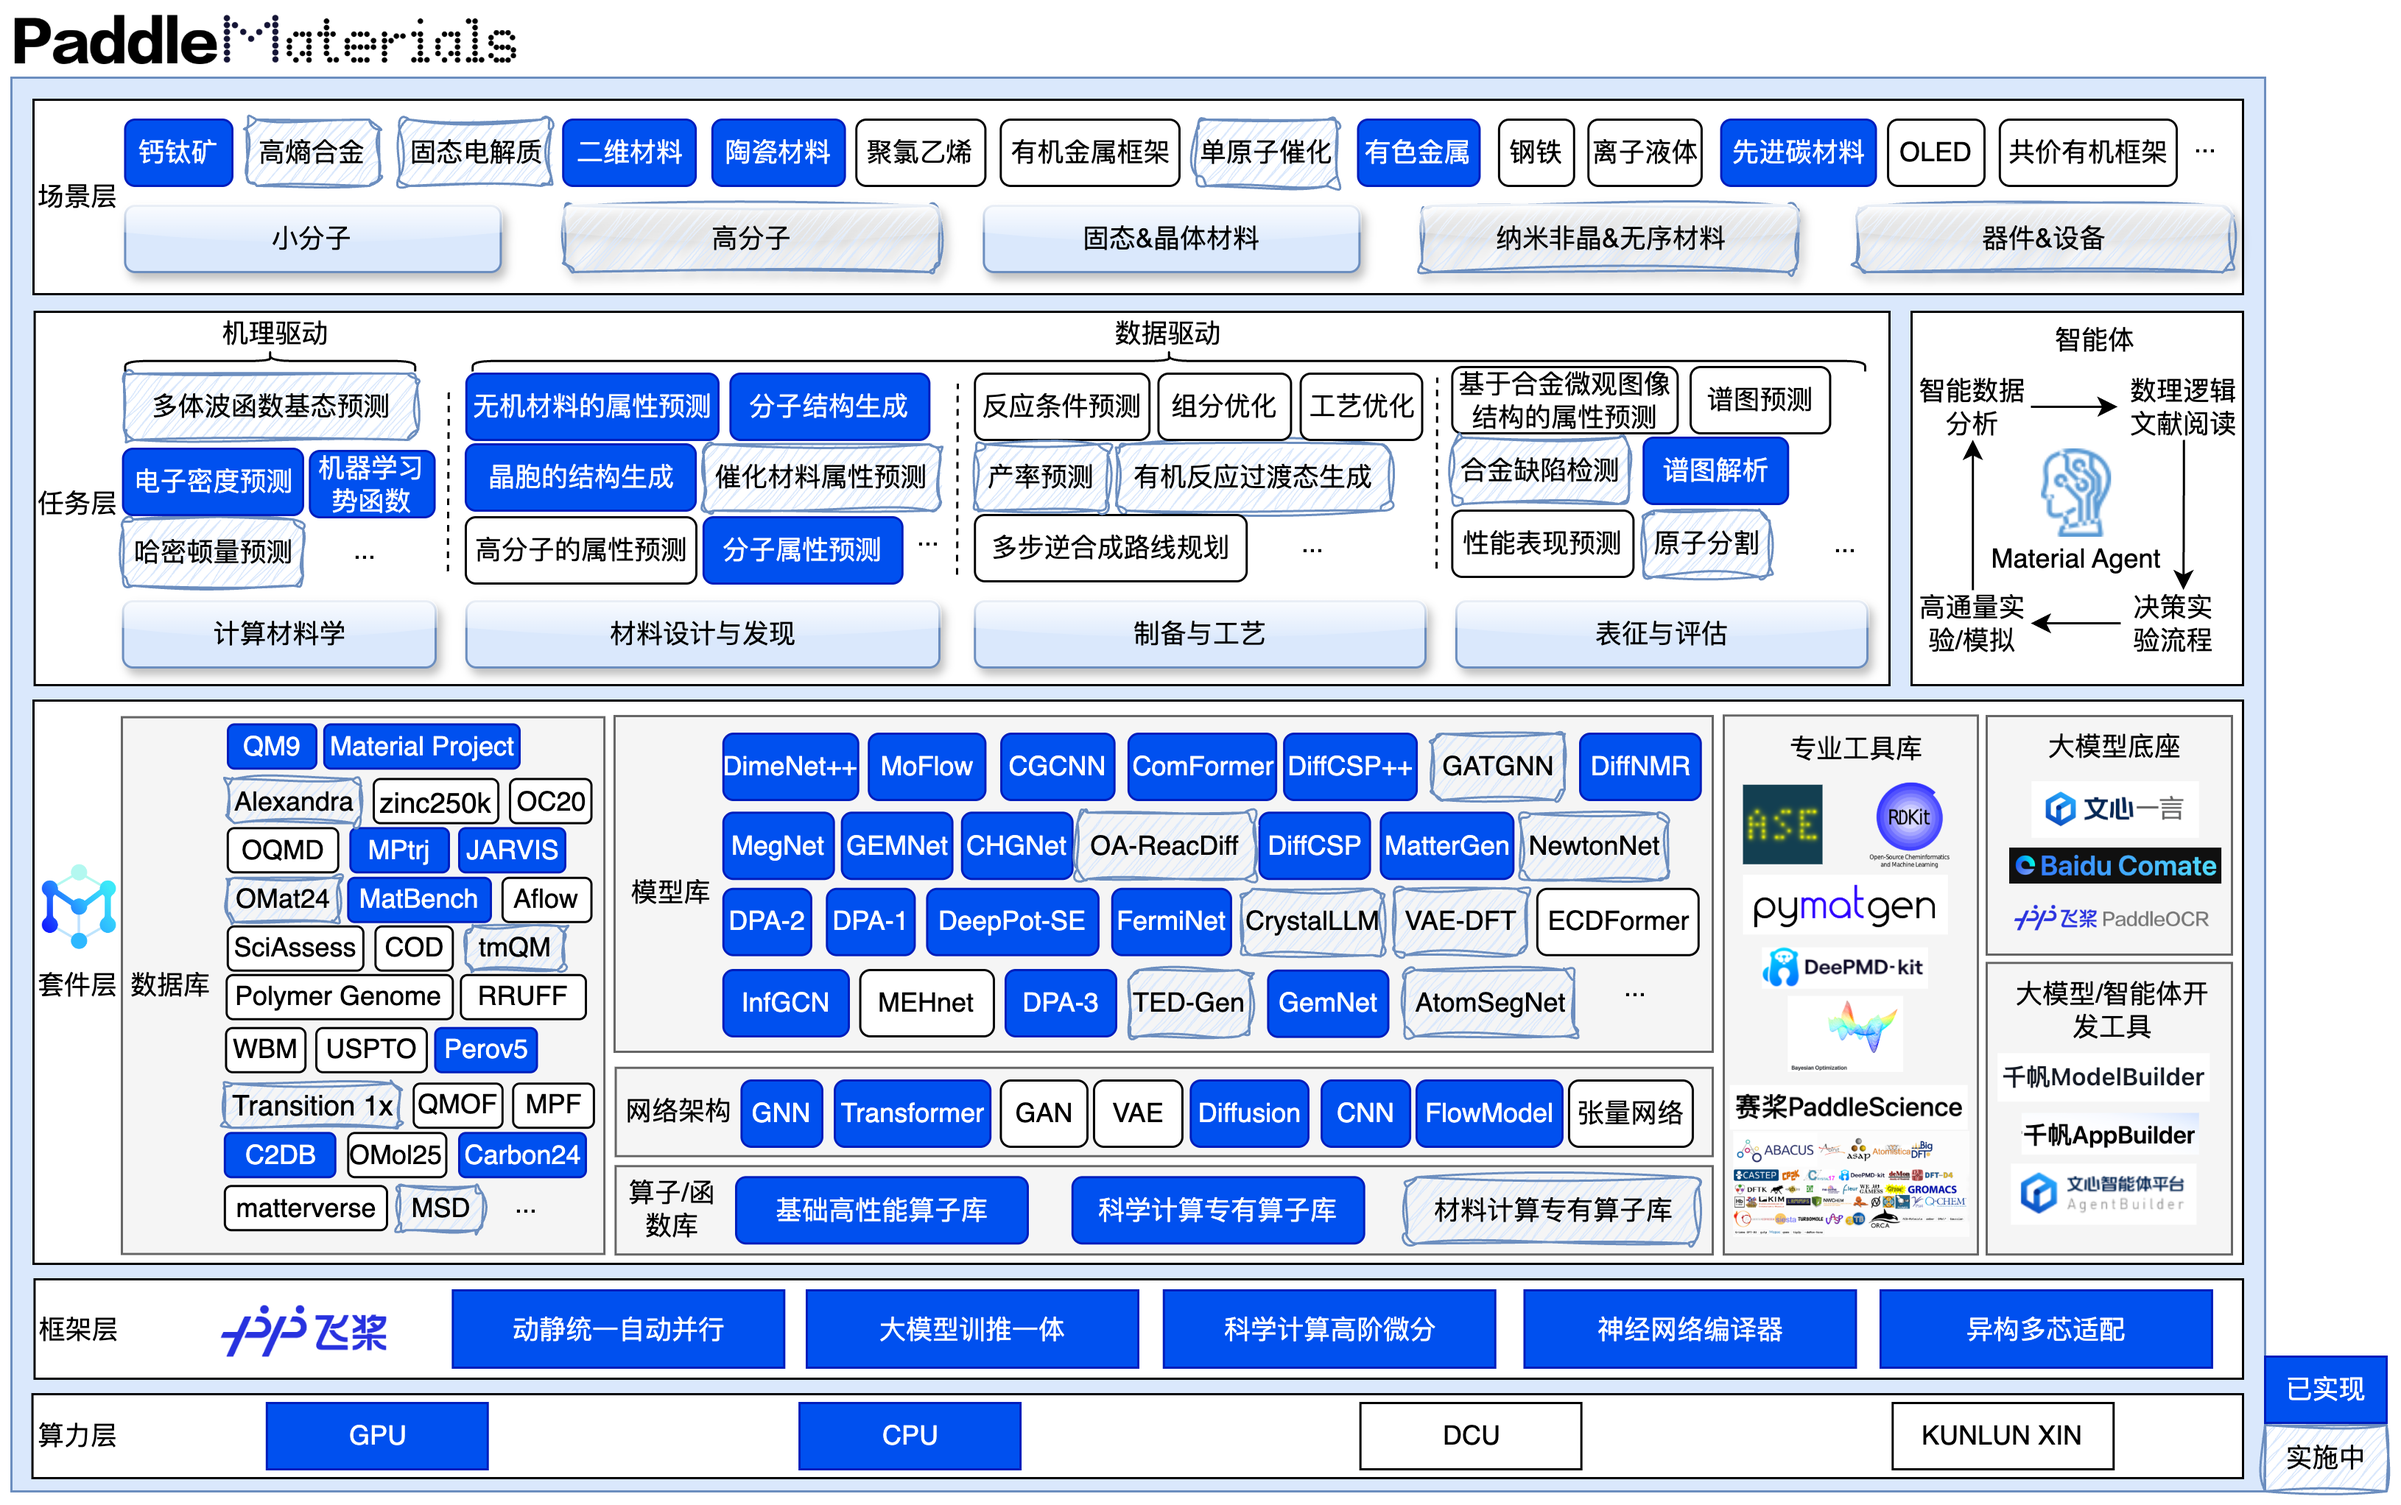
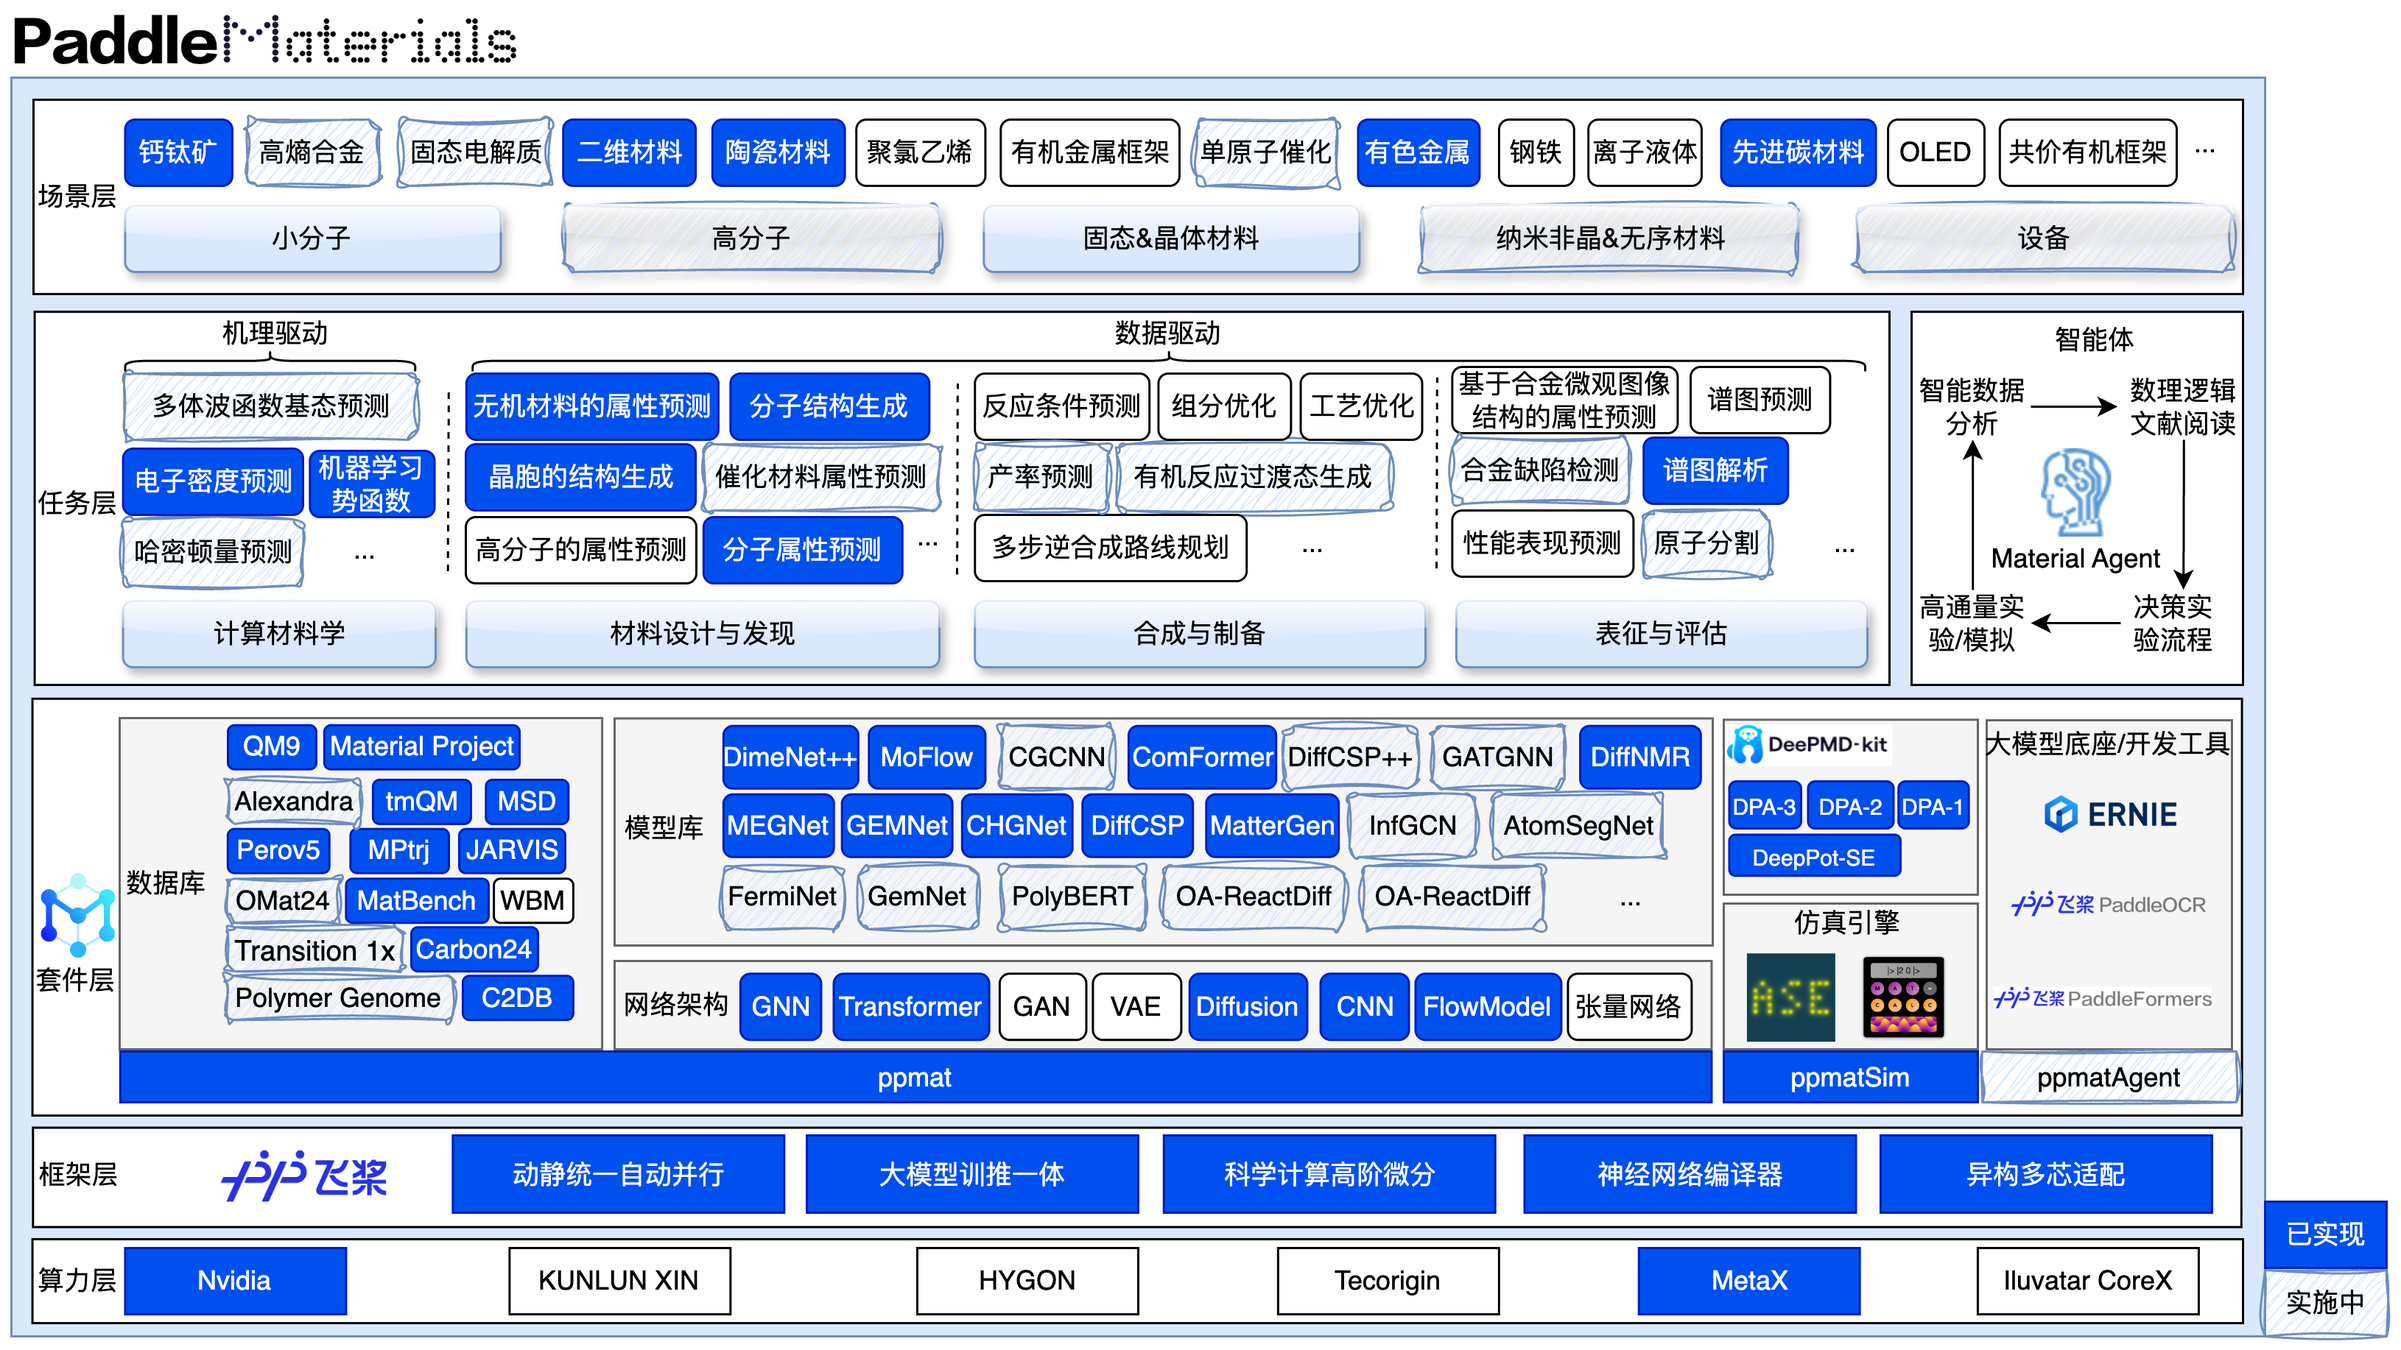
update overview map and metax support info (#201)

diff --git a/docs/multi_device.md b/docs/multi_device.md
@@ -6,14 +6,14 @@ Paddle ecosystem relies on the contributions of developers and users. We warmly 
 
 | Task Type | Model Name |   NVIDIA   | KUNLUNXIN | HYGON | Tecorigin |   MetaX   |
 |-----------|------------|------------|-----------|-------|-----------|-----------|
-| MLIP(Machine Learning Interatomic Potential) | [CHGNet](../interatomic_potentials/configs/chgnet/README.md)            | ✅ |  |  |  | |
-| MLIP(Machine Learning Interatomic Potential) | [MatterSim](../interatomic_potentials/configs/mattersim/README.md)      | ✅ |  |  |  | |
-| PP(Property Prediction)                      | [MEGNet](../property_prediction/configs/megnet/README.md)               | ✅ |  |  |  | |
-| PP(Property Prediction)                      | [DimeNet++](../property_prediction/configs/dimenet++/README.md)         | ✅ |  |  |  | |
-| PP(Property Prediction)                      | [ComFormer](../property_prediction/configs/comformer/README.md)         | ✅ |  |  |  | |
-| SG(Structure Generation)                     | [DiffCSP](../structure_generation/configs/diffcsp/README.md)            | ✅ |  |  |  | |
-| SG(Structure Generation)                     | [MatterGen](../structure_generation/configs/mattergen/README.md)        | ✅ |  |  |  | |
-| SE(Spectrum Elucidation)                     | [DiffNMR](../spectrum_elucidation/configs/diffnmr/README.md)            | ✅ |  |  |  | |
+| MLIP(Machine Learning Interatomic Potential) | [CHGNet](../interatomic_potentials/configs/chgnet/README.md)            | ✅ |  |  |  | ✅ |
+| MLIP(Machine Learning Interatomic Potential) | [MatterSim](../interatomic_potentials/configs/mattersim/README.md)      | ✅ |  |  |  | ✅ |
+| PP(Property Prediction)                      | [MEGNet](../property_prediction/configs/megnet/README.md)               | ✅ |  |  |  | ✅ |
+| PP(Property Prediction)                      | [DimeNet++](../property_prediction/configs/dimenet++/README.md)         | ✅ |  |  |  | ✅ |
+| PP(Property Prediction)                      | [ComFormer](../property_prediction/configs/comformer/README.md)         | ✅ |  |  |  | ✅ |
+| SG(Structure Generation)                     | [DiffCSP](../structure_generation/configs/diffcsp/README.md)            | ✅ |  |  |  | ✅ |
+| SG(Structure Generation)                     | [MatterGen](../structure_generation/configs/mattergen/README.md)        | ✅ |  |  |  | ✅ |
+| SE(Spectrum Elucidation)                     | [DiffNMR](../spectrum_elucidation/configs/diffnmr/README.md)            | ✅ |  |  |  | ✅ |
 
 
 ## 2. How to Contribute
